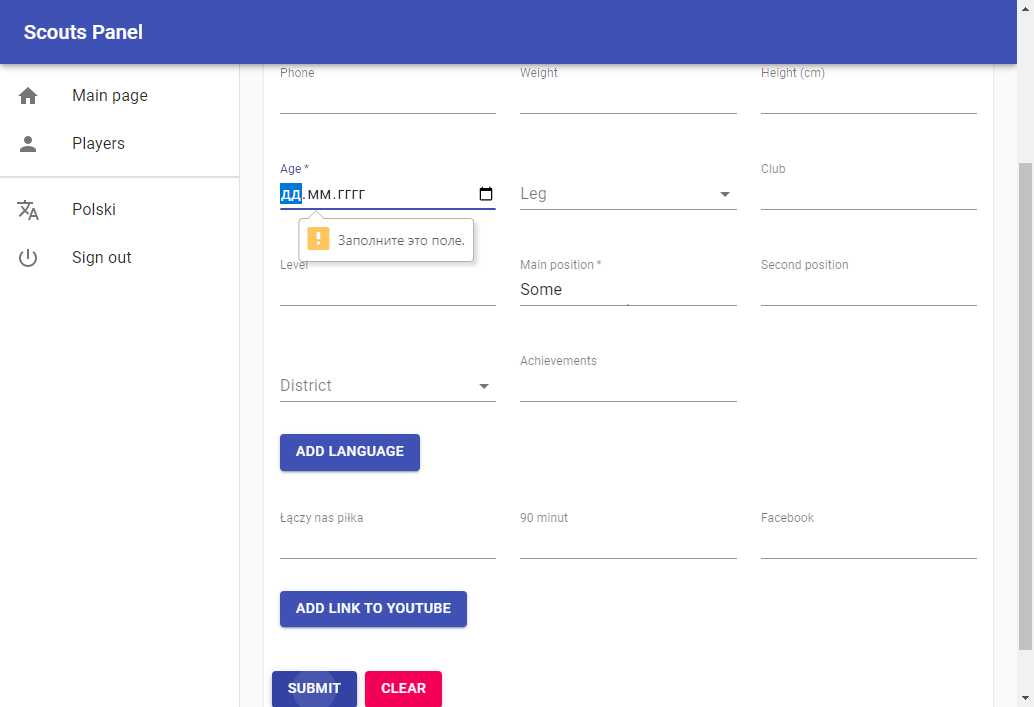
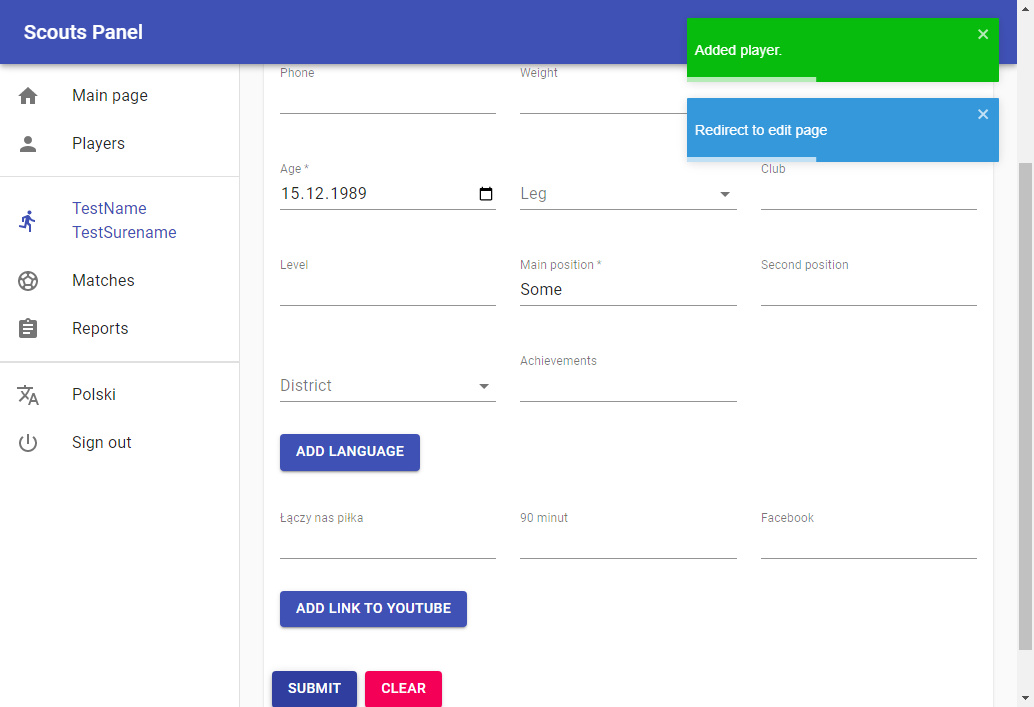
Initial commit

diff --git a/log.html b/log.html
@@ -1803,25 +1803,25 @@ function stopPropagation(event) {
 window.output = {};
 </script>
 <script type="text/javascript">
-window.output["suite"] = [1,2,3,0,[],[1,0,12070],[[4,5,6,7,[],[1,41,12026],[],[[8,0,0,[],[1,443,11621],[[0,9,0,0,0,0,0,0,[1,444,3648],[[0,10,11,0,12,13,0,0,[1,444,3599],[[445,2,14]]],[0,15,11,0,16,17,0,0,[1,4043,48],[[4091,2,18]]]]],[0,19,0,0,0,0,0,0,[1,4095,733],[[0,20,11,0,21,22,0,0,[1,4096,732],[[4098,2,23]]]]],[0,24,0,0,0,0,0,0,[1,4829,322],[[0,25,11,0,26,27,0,0,[1,4830,320],[[4832,2,28],[4937,2,29],[5150,2,30]]]]],[0,31,0,0,0,0,0,0,[1,5152,156],[[0,32,11,0,33,34,0,0,[1,5152,156],[[5154,2,35]]]]],[0,36,0,0,0,0,0,0,[1,5323,1679],[[0,37,11,0,38,39,0,0,[1,5324,1665],[]],[0,15,11,0,16,40,0,0,[1,6989,12],[[7001,2,41]]]]],[0,42,0,0,0,0,0,0,[1,7003,348],[[0,43,11,0,44,45,0,0,[1,7003,98],[[7005,2,46]]],[0,15,11,0,16,47,0,0,[1,7101,250],[[7350,2,48]]]]],[0,49,0,0,0,0,0,0,[1,7353,1374],[[0,20,11,0,21,50,0,0,[1,7354,377],[[7355,2,51]]],[0,20,11,0,21,52,0,0,[1,7732,364],[[7733,2,53]]],[0,20,11,0,21,54,0,0,[1,8096,347],[[8097,2,55]]],[0,20,11,0,21,56,0,0,[1,8444,282],[[8446,2,57]]]]],[0,58,0,0,0,0,0,0,[1,8730,674],[[0,32,11,0,33,59,0,0,[1,8731,283],[[8732,2,60]]],[0,61,11,0,62,63,0,0,[1,9014,390],[[9403,2,64]]]]],[2,65,11,0,66,0,0,0,[1,9408,2655],[]]]]],[],[1,1,0,0]]],[],[],[1,1,0,0]];
+window.output["suite"] = [1,2,3,0,[],[1,0,18483],[[4,5,6,7,[],[1,45,18434],[],[[8,0,0,[],[1,418,18058],[[0,9,0,0,0,0,0,0,[1,419,3640],[[0,10,11,0,12,13,0,0,[1,420,3629],[[420,2,14]]],[0,15,11,0,16,17,0,0,[1,4049,9],[[4058,2,18]]]]],[0,19,0,0,0,0,0,0,[1,4059,555],[[0,20,11,0,21,22,0,0,[1,4060,554],[[4061,2,23]]]]],[0,24,0,0,0,0,0,0,[1,4614,225],[[0,25,11,0,26,27,0,0,[1,4615,223],[[4616,2,28],[4690,2,29],[4838,2,30]]]]],[0,31,0,0,0,0,0,0,[1,4839,134],[[0,32,11,0,33,34,0,0,[1,4840,132],[[4841,2,35]]]]],[0,36,0,0,0,0,0,0,[1,4975,1584],[[0,37,11,0,38,39,0,0,[1,4976,1570],[]],[0,15,11,0,16,40,0,0,[1,6546,12],[[6558,2,41]]]]],[0,42,0,0,0,0,0,0,[1,6559,3131],[[0,43,11,0,44,45,0,0,[1,6560,122],[[6561,2,46]]],[0,47,48,0,49,50,0,0,[1,6682,3002],[[9684,2,51]]],[0,15,11,0,16,52,0,0,[1,9684,6],[[9690,2,53]]]]],[0,54,0,0,0,0,0,0,[1,9690,1193],[[0,20,11,0,21,55,0,0,[1,9691,277],[[9692,2,56]]],[0,20,11,0,21,57,0,0,[1,9969,345],[[9970,2,58]]],[0,20,11,0,21,59,0,0,[1,10314,270],[[10315,2,60]]],[0,20,11,0,21,61,0,0,[1,10584,298],[[10586,2,62]]]]],[0,63,0,0,0,0,0,0,[1,10888,3523],[[0,32,11,0,33,64,0,0,[1,10889,267],[[10891,2,65]]],[0,47,48,0,49,50,0,0,[1,11156,3001],[[14157,2,51]]],[0,66,11,0,67,68,0,0,[1,14157,254],[[14411,2,69]]]]],[2,70,11,0,71,0,0,0,[1,14412,4063],[]]]]],[],[1,1,0,0]]],[],[],[1,1,0,0]];
 </script>
 <script type="text/javascript">
 window.output["strings"] = [];
 </script>
 <script type="text/javascript">
-window.output["strings"] = window.output["strings"].concat(["*","*My Robotframework","*E:\\GitHub_projects\\my_robotframework","*.","*Test Adding Player","*E:\\GitHub_projects\\my_robotframework\\test_adding_player.robot","*test_adding_player.robot","*<p>Suite description #automated tests for scout website\x3c/p>","*Add a player button","*Open login page","*Open Browser","*SeleniumLibrary","*<p>Opens a new browser instance to the optional <code>url\x3c/code>.\x3c/p>","*${LOGIN URL}, ${BROWSER}","*Opening browser 'Chrome' to base url '<a href=\"https://scouts-test.futbolkolektyw.pl/en\">https://scouts-test.futbolkolektyw.pl/en\x3c/a>'.","*Title Should Be","*<p>Verifies that the current page title equals <code>title\x3c/code>.\x3c/p>","*Scouts panel - sign in","*Page title is 'Scouts panel - sign in'.","*Type in email","*Input Text","*<p>Types the given <code>text\x3c/code> into the text field identified by <code>locator\x3c/code>.\x3c/p>","*${EMAILINPUT}, user07@getnada.com","*Typing text 'user07@getnada.com' into text field 'xpath = //*[@id='login']'.","*Type in password","*Input Password","*<p>Types the given password into the text field identified by <code>locator\x3c/code>.\x3c/p>","*${PASSWORDINPUT}, Test-1234","*Typing password into text field 'xpath = //*[@id='password']'.","*Temporally setting log level to: NONE","*Log level changed from NONE to INFO.","*Click on the Submit button","*Click Button","*<p>Clicks the button identified by <code>locator\x3c/code>.\x3c/p>","*${SINGINBUTTON}","*Clicking button 'xpath = //button[@tabindex='0']'.","*Assert dashboared","*Wait Until Element Is Visible","*<p>Waits until the element <code>locator\x3c/code> is visible.\x3c/p>","*${PAGELOGO}","*Scouts panel","*Page title is 'Scouts panel'.","*Click on the Add a player button","*Click Element","*<p>Click the element identified by <code>locator\x3c/code>.\x3c/p>","*${ADDPLAYERBUTTON}","*Clicking element 'xpath = //span[contains(text(),'Add player')]'.","*Add player","*Page title is 'Add player'.","*Fill in inputs","*${NAME}, TestName","*Typing text 'TestName' into text field 'xpath = //input[@name = 'name']'.","*${SURENAME}, TestSurename","*Typing text 'TestSurename' into text field 'xpath = //input[@name = 'surname']'.","*${AGE}, 15.12.1989","*Typing text '15.12.1989' into text field 'xpath = //input[@name = 'name']'.","*${MAINPOSITION}, Some","*Typing text 'Some' into text field 'xpath = //input[@name = 'mainPosition']'.","*Click on the Submit button 1","*${ADDAPLAYERBUTTON}","*Clicking button 'xpath = //button[@type = 'submit']'.","*Capture Page Screenshot","*<p>Takes a screenshot of the current page and embeds it into a log file.\x3c/p>","*alert.png","*\x3c/td>\x3c/tr><tr><td colspan=\"3\"><a href=\"alert.png\"><img src=\"alert.png\" width=\"800px\">\x3c/a>","*Close Browser","*<p>Closes the current browser.\x3c/p>","*Error in file 'E:\\GitHub_projects\\my_robotframework\\test_adding_player.robot' on line 33: Setting 'Timeout' is allowed only once. Only the first value is used."]);
+window.output["strings"] = window.output["strings"].concat(["*","*My Robotframework","*E:\\GitHub_projects\\my_robotframework","*.","*Test Adding Player","*E:\\GitHub_projects\\my_robotframework\\test_adding_player.robot","*test_adding_player.robot","*<p>Suite description #automated tests for scout website\x3c/p>","*Add a player button","*Open login page","*Open Browser","*SeleniumLibrary","*<p>Opens a new browser instance to the optional <code>url\x3c/code>.\x3c/p>","*${LOGIN URL}, ${BROWSER}","*Opening browser 'Chrome' to base url '<a href=\"https://scouts-test.futbolkolektyw.pl/en\">https://scouts-test.futbolkolektyw.pl/en\x3c/a>'.","*Title Should Be","*<p>Verifies that the current page title equals <code>title\x3c/code>.\x3c/p>","*Scouts panel - sign in","*Page title is 'Scouts panel - sign in'.","*Type in email","*Input Text","*<p>Types the given <code>text\x3c/code> into the text field identified by <code>locator\x3c/code>.\x3c/p>","*${EMAILINPUT}, user07@getnada.com","*Typing text 'user07@getnada.com' into text field 'xpath = //*[@id='login']'.","*Type in password","*Input Password","*<p>Types the given password into the text field identified by <code>locator\x3c/code>.\x3c/p>","*${PASSWORDINPUT}, Test-1234","*Typing password into text field 'xpath = //*[@id='password']'.","*Temporally setting log level to: NONE","*Log level changed from NONE to INFO.","*Click on the Submit button","*Click Button","*<p>Clicks the button identified by <code>locator\x3c/code>.\x3c/p>","*${SINGINBUTTON}","*Clicking button 'xpath = //button[@tabindex='0']'.","*Assert dashboared","*Wait Until Element Is Visible","*<p>Waits until the element <code>locator\x3c/code> is visible.\x3c/p>","*${PAGELOGO}","*Scouts panel","*Page title is 'Scouts panel'.","*Click on the Add a player button","*Click Element","*<p>Click the element identified by <code>locator\x3c/code>.\x3c/p>","*${ADDPLAYERBUTTON}","*Clicking element 'xpath = //span[contains(text(),'Add player')]'.","*Sleep","*BuiltIn","*<p>Pauses the test executed for the given time.\x3c/p>","*3","*Slept 3 seconds","*Add player","*Page title is 'Add player'.","*Fill in inputs","*${NAME}, TestName","*Typing text 'TestName' into text field 'xpath = //input[@name = 'name']'.","*${SURENAME}, TestSurename","*Typing text 'TestSurename' into text field 'xpath = //input[@name = 'surname']'.","*${AGE}, 15.12.1989","*Typing text '15.12.1989' into text field 'xpath = //input[@type = 'date']'.","*${MAINPOSITION}, Some","*Typing text 'Some' into text field 'xpath = //input[@name = 'mainPosition']'.","*Click on the Submit button 1","*${ADDAPLAYERBUTTON}","*Clicking button 'xpath = //button[@type = 'submit']'.","*Capture Page Screenshot","*<p>Takes a screenshot of the current page and embeds it into a log file.\x3c/p>","*alert.png","*\x3c/td>\x3c/tr><tr><td colspan=\"3\"><a href=\"alert.png\"><img src=\"alert.png\" width=\"800px\">\x3c/a>","*Close Browser","*<p>Closes the current browser.\x3c/p>"]);
 </script>
 <script type="text/javascript">
-window.output["stats"] = [[{"elapsed":"00:00:12","fail":0,"label":"All Tests","pass":1,"skip":0}],[],[{"elapsed":"00:00:12","fail":0,"id":"s1","label":"My Robotframework","name":"My Robotframework","pass":1,"skip":0},{"elapsed":"00:00:12","fail":0,"id":"s1-s1","label":"My Robotframework.Test Adding Player","name":"Test Adding Player","pass":1,"skip":0}]];
+window.output["stats"] = [[{"elapsed":"00:00:18","fail":0,"label":"All Tests","pass":1,"skip":0}],[],[{"elapsed":"00:00:18","fail":0,"id":"s1","label":"My Robotframework","name":"My Robotframework","pass":1,"skip":0},{"elapsed":"00:00:18","fail":0,"id":"s1-s1","label":"My Robotframework.Test Adding Player","name":"Test Adding Player","pass":1,"skip":0}]];
 </script>
 <script type="text/javascript">
-window.output["errors"] = [[-22,4,67]];
+window.output["errors"] = [];
 </script>
 <script type="text/javascript">
-window.output["baseMillis"] = 1676386223528;
+window.output["baseMillis"] = 1676387034567;
 </script>
 <script type="text/javascript">
-window.output["generated"] = 12091;
+window.output["generated"] = 18513;
 </script>
 <script type="text/javascript">
 window.output["expand_keywords"] = null;

diff --git a/report.html b/report.html
@@ -1629,7 +1629,7 @@ storage = function () {
 window.output = {};
 </script>
 <script type="text/javascript">
-window.output["suite"] = [1,2,3,0,[],[1,0,12070],[[4,5,6,7,[],[1,41,12026],[],[[8,0,0,[],[1,443,11621],[]]],[],[1,1,0,0]]],[],[],[1,1,0,0]];
+window.output["suite"] = [1,2,3,0,[],[1,0,18483],[[4,5,6,7,[],[1,45,18434],[],[[8,0,0,[],[1,418,18058],[]]],[],[1,1,0,0]]],[],[],[1,1,0,0]];
 </script>
 <script type="text/javascript">
 window.output["strings"] = [];
@@ -1638,13 +1638,13 @@ window.output["strings"] = [];
 window.output["strings"] = window.output["strings"].concat(["*","*My Robotframework","*E:\\GitHub_projects\\my_robotframework","*.","*Test Adding Player","*E:\\GitHub_projects\\my_robotframework\\test_adding_player.robot","*test_adding_player.robot","*<p>Suite description #automated tests for scout website\x3c/p>","*Add a player button"]);
 </script>
 <script type="text/javascript">
-window.output["stats"] = [[{"elapsed":"00:00:12","fail":0,"label":"All Tests","pass":1,"skip":0}],[],[{"elapsed":"00:00:12","fail":0,"id":"s1","label":"My Robotframework","name":"My Robotframework","pass":1,"skip":0},{"elapsed":"00:00:12","fail":0,"id":"s1-s1","label":"My Robotframework.Test Adding Player","name":"Test Adding Player","pass":1,"skip":0}]];
+window.output["stats"] = [[{"elapsed":"00:00:18","fail":0,"label":"All Tests","pass":1,"skip":0}],[],[{"elapsed":"00:00:18","fail":0,"id":"s1","label":"My Robotframework","name":"My Robotframework","pass":1,"skip":0},{"elapsed":"00:00:18","fail":0,"id":"s1-s1","label":"My Robotframework.Test Adding Player","name":"Test Adding Player","pass":1,"skip":0}]];
 </script>
 <script type="text/javascript">
-window.output["baseMillis"] = 1676386223528;
+window.output["baseMillis"] = 1676387034567;
 </script>
 <script type="text/javascript">
-window.output["generated"] = 12091;
+window.output["generated"] = 18513;
 </script>
 <script type="text/javascript">
 window.output["expand_keywords"] = null;
